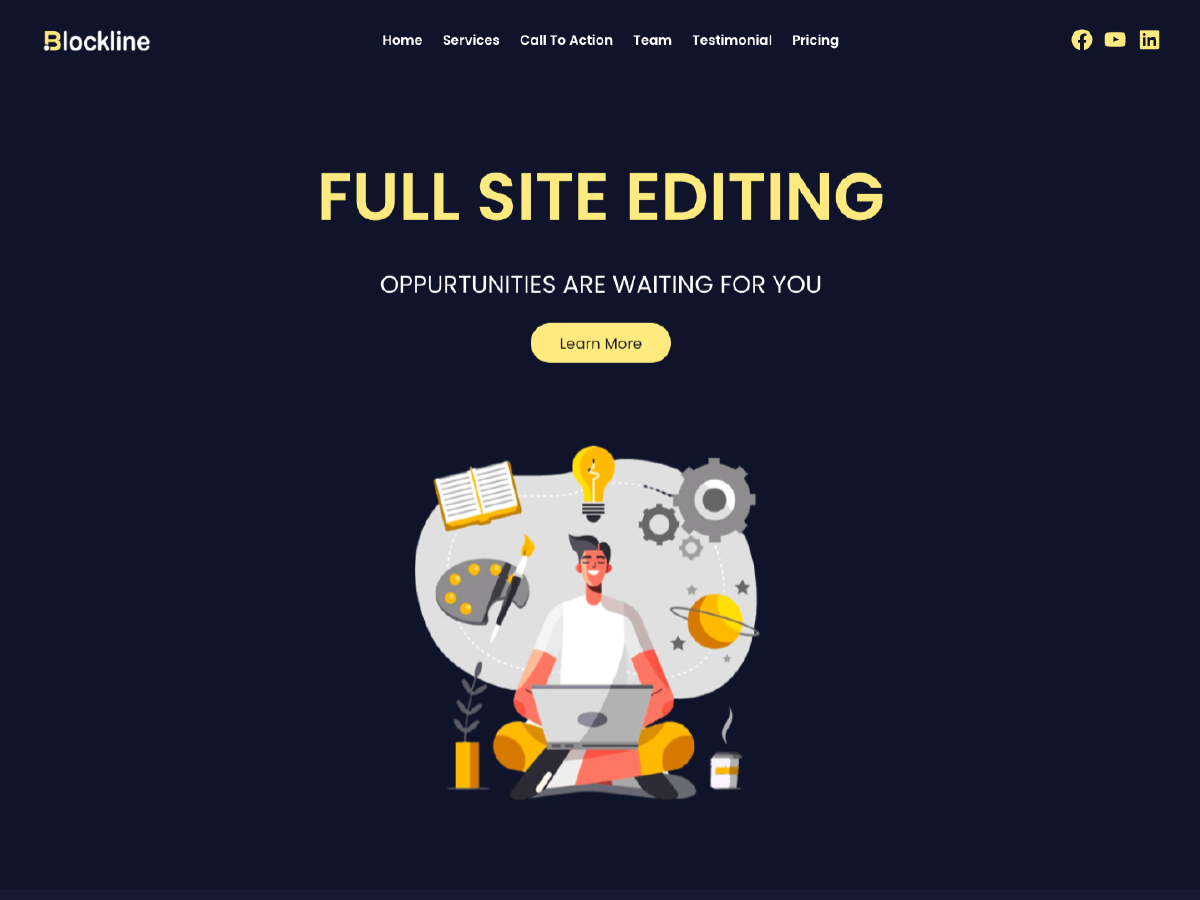
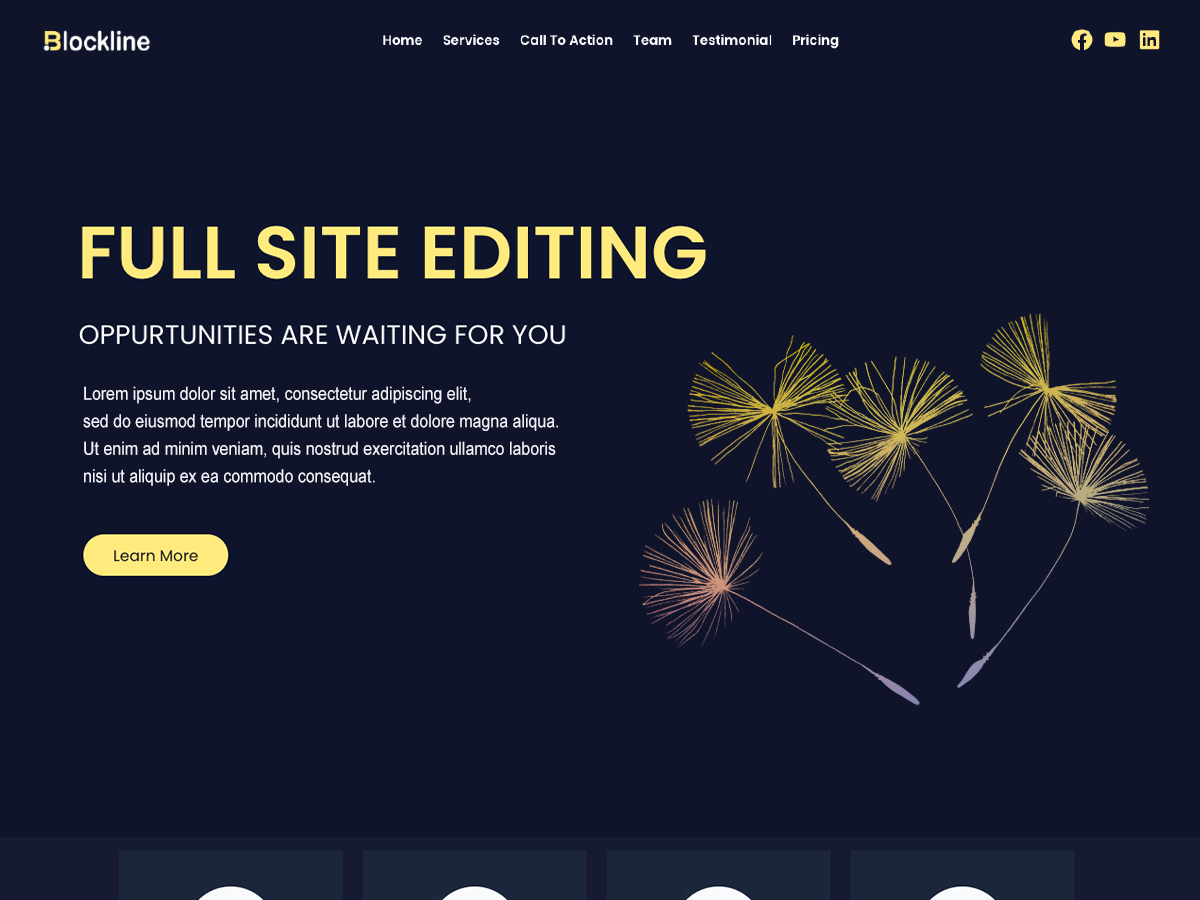
ne file added

diff --git a/templates/home.html b/templates/home.html
@@ -1,8 +1,6 @@
 <!-- wp:template-part {"slug":"header","tagName":"header"} /-->
 
-
-<!-- wp:pattern {"slug":"blockline/hero"} /-->
-
+<!-- wp:pattern {"slug":"blockline/hero-main"} /-->
 
 <!-- wp:pattern {"slug":"blockline/service"} /-->
 

diff --git a/inc/patterns/pricing.php b/inc/patterns/pricing.php
@@ -10,7 +10,7 @@
 return array(
     'title'      =>__( 'Pricing Section', 'blockline' ),
     'categories' => array( 'blockline' ),
-    'content'    => '<!-- wp:group {"style":{"spacing":{"padding":{"top":"100px","right":"20px","bottom":"100px","left":"20px"},"margin":{"top":"0","bottom":"0"}},"border":{"bottom":{"color":"#eeeeee","width":"1px"}}},"backgroundColor":"bg-sec","layout":{"type":"constrained"}} -->
+    'content'    => '<!-- wp:group {"style":{"spacing":{"padding":{"top":"100px","right":"20px","bottom":"100px","left":"20px"},"margin":{"top":"0","bottom":"0"}},"border":{"bottom":{"color":"#eeeeee","width":"1px"}}},"background":"bg-sec","layout":{"type":"constrained"}} -->
 <div class="wp-block-group has-bg-sec-background-color has-background" style="border-bottom-color:#eeeeee;border-bottom-width:1px;margin-top:0;margin-bottom:0;padding-top:100px;padding-right:20px;padding-bottom:100px;padding-left:20px"><!-- wp:group {"layout":{"type":"default"}} -->
 <div class="wp-block-group"><!-- wp:heading {"textAlign":"center","style":{"spacing":{"margin":{"bottom":"10px","left":"0","right":"0"}}},"fontSize":"extra-large"} -->
 <h2 class="has-text-align-center has-extra-large-font-size" style="margin-right:0;margin-bottom:10px;margin-left:0">'.esc_html__( 'Pricing & Packages', 'blockline' ).'</h2>
@@ -22,7 +22,7 @@ return array(
 
 <!-- wp:columns {"style":{"spacing":{"padding":{"right":"20px","left":"20px"},"margin":{"top":"80px"}}}} -->
 <div class="wp-block-columns" style="margin-top:80px;padding-right:20px;padding-left:20px"><!-- wp:column {"style":{"spacing":{"padding":{"right":"0","left":"0","top":"0px"}}},"layout":{"type":"default"}} -->
-<div class="wp-block-column" style="padding-top:0px;padding-right:0;padding-left:0"><!-- wp:group {"style":{"border":{"color":"#eeeeee","width":"1px"},"spacing":{"padding":{"top":"50px","right":"20px","bottom":"20px","left":"20px"},"blockGap":"0"}},"backgroundColor":"background","layout":{"type":"constrained"}} -->
+<div class="wp-block-column" style="padding-top:0px;padding-right:0;padding-left:0"><!-- wp:group {"style":{"border":{"color":"#eeeeee","width":"1px"},"spacing":{"padding":{"top":"50px","right":"20px","bottom":"20px","left":"20px"},"blockGap":"0"}},"background":"background","layout":{"type":"constrained"}} -->
 <div class="wp-block-group has-border-color has-background-background-color has-background" style="border-color:#eeeeee;border-width:1px;padding-top:50px;padding-right:20px;padding-bottom:20px;padding-left:20px"><!-- wp:heading {"textAlign":"center","fontSize":"upper-heading"} -->
 <h2 class="has-text-align-center has-upper-heading-font-size">'.esc_html__( 'STARTER', 'blockline' ).'</h2>
 <!-- /wp:heading -->
@@ -35,7 +35,7 @@ return array(
 <p class="has-text-align-center has-cyan-bluish-gray-color has-text-color"><strong>'.esc_html__( 'Per Month', 'blockline' ).'</strong></p>
 <!-- /wp:paragraph -->
 
-<!-- wp:separator {"style":{"spacing":{"margin":{"top":"20px","bottom":"20px"}}},"backgroundColor":"cyan-bluish-gray","className":"is-style-default"} -->
+<!-- wp:separator {"style":{"spacing":{"margin":{"top":"20px","bottom":"20px"}}},"background":"cyan-bluish-gray","className":"is-style-default"} -->
 <hr class="wp-block-separator has-text-color has-cyan-bluish-gray-color has-alpha-channel-opacity has-cyan-bluish-gray-background-color has-background is-style-default" style="margin-top:20px;margin-bottom:20px"/>
 <!-- /wp:separator -->
 
@@ -60,11 +60,11 @@ return array(
 <!-- /wp:column -->
 
 <!-- wp:column {"style":{"spacing":{"padding":{"right":"0","left":"0","top":"0px"}},"border":{"color":"#eeeeee","width":"1px"}},"layout":{"type":"default"}} -->
-<div class="wp-block-column has-border-color" style="border-color:#eeeeee;border-width:1px;padding-top:0px;padding-right:0;padding-left:0"><!-- wp:paragraph {"align":"center","style":{"spacing":{"margin":{"top":"0","right":"0","bottom":"0","left":"0"},"padding":{"top":"10px","right":"0","bottom":"10px","left":"0"}}},"backgroundColor":"accent","textColor":"background","fontSize":"tiny"} -->
+<div class="wp-block-column has-border-color" style="border-color:#eeeeee;border-width:1px;padding-top:0px;padding-right:0;padding-left:0"><!-- wp:paragraph {"align":"center","style":{"spacing":{"margin":{"top":"0","right":"0","bottom":"0","left":"0"},"padding":{"top":"10px","right":"0","bottom":"10px","left":"0"}}},"background":"accent","textColor":"background","fontSize":"tiny"} -->
 <p class="has-text-align-center has-background-color has-accent-background-color has-text-color has-background has-tiny-font-size" style="margin-top:0;margin-right:0;margin-bottom:0;margin-left:0;padding-top:10px;padding-right:0;padding-bottom:10px;padding-left:0"><strong>'.esc_html__( 'Recommended', 'blockline' ).'</strong></p>
 <!-- /wp:paragraph -->
 
-<!-- wp:group {"style":{"border":{"width":"0px","style":"none"},"spacing":{"padding":{"top":"50px","right":"20px","bottom":"20px","left":"20px"},"blockGap":"0","margin":{"top":"0","bottom":"0"}}},"backgroundColor":"background","layout":{"type":"constrained"}} -->
+<!-- wp:group {"style":{"border":{"width":"0px","style":"none"},"spacing":{"padding":{"top":"50px","right":"20px","bottom":"20px","left":"20px"},"blockGap":"0","margin":{"top":"0","bottom":"0"}}},"background":"background","layout":{"type":"constrained"}} -->
 <div class="wp-block-group has-background-background-color has-background" style="border-style:none;border-width:0px;margin-top:0;margin-bottom:0;padding-top:50px;padding-right:20px;padding-bottom:20px;padding-left:20px"><!-- wp:heading {"textAlign":"center","fontSize":"upper-heading"} -->
 <h2 class="has-text-align-center has-upper-heading-font-size">'.esc_html__( 'TEAM', 'blockline' ).'</h2>
 <!-- /wp:heading -->
@@ -77,7 +77,7 @@ return array(
 <p class="has-text-align-center has-cyan-bluish-gray-color has-text-color"><strong>'.esc_html__( 'Per Month', 'blockline' ).'</strong></p>
 <!-- /wp:paragraph -->
 
-<!-- wp:separator {"style":{"spacing":{"margin":{"top":"20px","bottom":"20px"}}},"backgroundColor":"cyan-bluish-gray","className":"is-style-default"} -->
+<!-- wp:separator {"style":{"spacing":{"margin":{"top":"20px","bottom":"20px"}}},"background":"cyan-bluish-gray","className":"is-style-default"} -->
 <hr class="wp-block-separator has-text-color has-cyan-bluish-gray-color has-alpha-channel-opacity has-cyan-bluish-gray-background-color has-background is-style-default" style="margin-top:20px;margin-bottom:20px"/>
 <!-- /wp:separator -->
 
@@ -102,7 +102,7 @@ return array(
 <!-- /wp:column -->
 
 <!-- wp:column {"style":{"spacing":{"padding":{"right":"0","left":"0","top":"0px"}}},"layout":{"type":"default"}} -->
-<div class="wp-block-column" style="padding-top:0px;padding-right:0;padding-left:0"><!-- wp:group {"style":{"border":{"color":"#eeeeee","width":"1px"},"spacing":{"padding":{"top":"50px","right":"20px","bottom":"20px","left":"20px"},"blockGap":"0"}},"backgroundColor":"background","layout":{"type":"constrained"}} -->
+<div class="wp-block-column" style="padding-top:0px;padding-right:0;padding-left:0"><!-- wp:group {"style":{"border":{"color":"#eeeeee","width":"1px"},"spacing":{"padding":{"top":"50px","right":"20px","bottom":"20px","left":"20px"},"blockGap":"0"}},"background":"background","layout":{"type":"constrained"}} -->
 <div class="wp-block-group has-border-color has-background-background-color has-background" style="border-color:#eeeeee;border-width:1px;padding-top:50px;padding-right:20px;padding-bottom:20px;padding-left:20px"><!-- wp:heading {"textAlign":"center","fontSize":"upper-heading"} -->
 <h2 class="has-text-align-center has-upper-heading-font-size">'.esc_html__( 'PREMIUM', 'blockline' ).'</h2>
 <!-- /wp:heading -->
@@ -115,7 +115,7 @@ return array(
 <p class="has-text-align-center has-cyan-bluish-gray-color has-text-color"><strong>'.esc_html__( 'Per Month', 'blockline' ).'</strong></p>
 <!-- /wp:paragraph -->
 
-<!-- wp:separator {"style":{"spacing":{"margin":{"top":"20px","bottom":"20px"}}},"backgroundColor":"cyan-bluish-gray","className":"is-style-default"} -->
+<!-- wp:separator {"style":{"spacing":{"margin":{"top":"20px","bottom":"20px"}}},"background":"cyan-bluish-gray","className":"is-style-default"} -->
 <hr class="wp-block-separator has-text-color has-cyan-bluish-gray-color has-alpha-channel-opacity has-cyan-bluish-gray-background-color has-background is-style-default" style="margin-top:20px;margin-bottom:20px"/>
 <!-- /wp:separator -->
 
@@ -140,7 +140,7 @@ return array(
 <!-- /wp:column -->
 
 <!-- wp:column {"style":{"spacing":{"padding":{"right":"0","left":"0","top":"0px"}}},"layout":{"type":"default"}} -->
-<div class="wp-block-column" style="padding-top:0px;padding-right:0;padding-left:0"><!-- wp:group {"style":{"border":{"color":"#eeeeee","width":"1px"},"spacing":{"padding":{"top":"50px","right":"20px","bottom":"20px","left":"20px"},"blockGap":"0"}},"backgroundColor":"background","layout":{"type":"constrained"}} -->
+<div class="wp-block-column" style="padding-top:0px;padding-right:0;padding-left:0"><!-- wp:group {"style":{"border":{"color":"#eeeeee","width":"1px"},"spacing":{"padding":{"top":"50px","right":"20px","bottom":"20px","left":"20px"},"blockGap":"0"}},"background":"background","layout":{"type":"constrained"}} -->
 <div class="wp-block-group has-border-color has-background-background-color has-background" style="border-color:#eeeeee;border-width:1px;padding-top:50px;padding-right:20px;padding-bottom:20px;padding-left:20px"><!-- wp:heading {"textAlign":"center","fontSize":"upper-heading"} -->
 <h2 class="has-text-align-center has-upper-heading-font-size">'.esc_html__( 'CORPORATE', 'blockline' ).'</h2>
 <!-- /wp:heading -->
@@ -153,7 +153,7 @@ return array(
 <p class="has-text-align-center has-cyan-bluish-gray-color has-text-color"><strong>'.esc_html__( 'Per Month', 'blockline' ).'</strong></p>
 <!-- /wp:paragraph -->
 
-<!-- wp:separator {"style":{"spacing":{"margin":{"top":"20px","bottom":"20px"}}},"backgroundColor":"cyan-bluish-gray","className":"is-style-default"} -->
+<!-- wp:separator {"style":{"spacing":{"margin":{"top":"20px","bottom":"20px"}}},"background":"cyan-bluish-gray","className":"is-style-default"} -->
 <hr class="wp-block-separator has-text-color has-cyan-bluish-gray-color has-alpha-channel-opacity has-cyan-bluish-gray-background-color has-background is-style-default" style="margin-top:20px;margin-bottom:20px"/>
 <!-- /wp:separator -->
 

diff --git a/inc/patterns/hero.php b/inc/patterns/hero.php
@@ -17,7 +17,7 @@ $strings = array(
 return array(
     'title'      =>__( 'Hero Section', 'blockline' ),
     'categories' => array( 'blockline' ),
-    'content'    => '<!-- wp:group {"style":{"spacing":{"padding":{"top":"var:preset|spacing|80","bottom":"var:preset|spacing|80"},"margin":{"top":"0","bottom":"0"}},"border":{"top":{"style":"none","width":"0px"},"right":{"style":"none","width":"0px"},"bottom":{"color":"#eeeeee","style":"none","width":"0px"},"left":{"style":"none","width":"0px"}}},"backgroundColor":"bg-prim","layout":{"type":"constrained"}} -->
+    'content'    => '<!-- wp:group {"style":{"spacing":{"padding":{"top":"var:preset|spacing|80","bottom":"var:preset|spacing|80"},"margin":{"top":"0","bottom":"0"}},"border":{"top":{"style":"none","width":"0px"},"right":{"style":"none","width":"0px"},"bottom":{"color":"#eeeeee","style":"none","width":"0px"},"left":{"style":"none","width":"0px"}}},"background":"bg-prim","layout":{"type":"constrained"}} -->
     <div class="wp-block-group has-bg-prim-background-color has-background" style="border-top-style:none;border-top-width:0px;border-right-style:none;border-right-width:0px;border-bottom-color:#eeeeee;border-bottom-style:none;border-bottom-width:0px;border-left-style:none;border-left-width:0px;margin-top:0;margin-bottom:0;padding-top:var(--wp--preset--spacing--80);padding-bottom:var(--wp--preset--spacing--80)"><!-- wp:spacer {"height":"60px"} -->
     <div style="height:60px" aria-hidden="true" class="wp-block-spacer"></div>
     <!-- /wp:spacer -->
@@ -33,18 +33,19 @@ return array(
     <!-- wp:spacer {"height":"40px"} -->
     <div style="height:40px" aria-hidden="true" class="wp-block-spacer"></div>
     <!-- /wp:spacer -->
-    
+
     <!-- wp:buttons {"layout":{"type":"flex","justifyContent":"center"},"style":{"spacing":{"blockGap":"0"}}} -->
-    <div class="wp-block-buttons"><!-- wp:button {"backgroundColor":"accent","style":{"border":{"radius":"100px"},"spacing":{"padding":{"top":"1rem","right":"2rem","bottom":"1rem","left":"2rem"}}},"className":"is-style-fill","fontSize":"normal"} -->
-    <div class="wp-block-button has-custom-font-size is-style-fill has-normal-font-size"><a class="wp-block-button__link has-accent-background-color has-background wp-element-button" style="border-radius:100px;padding-top:1rem;padding-right:2rem;padding-bottom:1rem;padding-left:2rem">' . esc_html( $strings['button'] ) . '</a></div>
-    <!-- /wp:button --></div>
-    <!-- /wp:buttons -->
+<div class="wp-block-buttons"><!-- wp:button {"style":{"border":{"radius":"100px"},"spacing":{"padding":{"top":"1rem","right":"2rem","bottom":"1rem","left":"2rem"}}},"className":"is-style-fill","fontSize":"normal"} -->
+<div class="wp-block-button has-custom-font-size is-style-fill has-normal-font-size"><a class="wp-block-button__link wp-element-button" style="border-radius:100px;padding-top:1rem;padding-right:2rem;padding-bottom:1rem;padding-left:2rem">' . esc_html( $strings['button'] ) . '</a></div>
+<!-- /wp:button --></div>
+<!-- /wp:buttons -->
+
     
     <!-- wp:spacer {"height":"30px"} -->
     <div style="height:30px" aria-hidden="true" class="wp-block-spacer"></div>
     <!-- /wp:spacer -->
     <!-- wp:image {"align":"center","id":13,"sizeSlug":"full","linkDestination":"none"} -->
-<figure class="wp-block-image aligncenter size-full"><img src="' . esc_url( BLOCKLINE_URL . 'assets/images/').'hero.png" alt="" class="wp-image-13"/></figure>
+<figure class="wp-block-image aligncenter size-full"><img src="' . esc_url( BLOCKLINE_URL . 'assets/images/').'hero-center.png" alt="" class="wp-image-13"/></figure>
 <!-- /wp:image --></div>
     ',
 );

diff --git a/inc/patterns/hero-main.php b/inc/patterns/hero-main.php
@@ -1,0 +1,56 @@
+<?php
+/**
+ * Hero Main Section
+ * 
+ * slug: hero-main
+ * title: Hero main Section
+ * categories: blockline
+ */
+$strings = array(
+    'title'    => __( 'Blockline Theme', 'blockline' ),
+    'subtitle'    => __( 'OPPURTUNITIES ARE WAITING FOR YOU', 'blockline' ),
+    'description' => __( 'Lorem ipsum dolor sit amet, consectetur adipiscing elit, sed do eiusmod tempor ut labore et dolore magna aliqua.', 'blockline' ),
+    'button'   => __( 'Learn More', 'blockline' ),
+);
+
+return array(
+    'title'      =>__( 'Hero Main Section', 'blockline' ),
+    'categories' => array( 'blockline' ),
+    'content'    => '<!-- wp:group {"style":{"spacing":{"padding":{"top":"var:preset|spacing|80","bottom":"var:preset|spacing|80"},"margin":{"top":"0","bottom":"0"}},"border":{"bottom":{"width":"0px","style":"none"}},"color":{"background":"bg-prim"}},"layout":{"type":"constrained"}} -->
+    <div class="wp-block-group has-background" style="border-bottom-style:none;border-bottom-width:0px;background-color:bg-prim;margin-top:0;margin-bottom:0;padding-top:var(--wp--preset--spacing--80);padding-bottom:var(--wp--preset--spacing--80)"><!-- wp:spacer {"height":"10px"} -->
+    <div style="height:10px" aria-hidden="true" class="wp-block-spacer"></div>
+    <!-- /wp:spacer -->
+    
+    <!-- wp:columns -->
+    <div class="wp-block-columns"><!-- wp:column -->
+    <div class="wp-block-column">
+    
+    
+    <!-- wp:heading {"textAlign":"left","style":{"typography":{"fontStyle":"normal","fontWeight":"600","fontSize":"62px"},"elements":{"link":{"color":{"text":"accent"}}},"color":{"text":"accent"}}} -->
+    <h2 class="has-text-align-left has-text-color has-link-color" style="color:accent;font-size:62px;font-style:normal;font-weight:600">' . esc_html( $strings['title'] ) . '</h2>
+    <!-- /wp:heading -->
+    
+    <!-- wp:paragraph {"align":"left","style":{"typography":{"fontSize":"22px"}}} -->
+    <p class="has-text-align-left" style="font-size:22px">' . esc_html( $strings['subtitle'] ) . '</p>
+    <!-- /wp:paragraph -->
+    
+    <!-- wp:paragraph {"align":"left","fontSize":"small"} -->
+    <p class="has-text-align-left has-small-font-size">' . esc_html( $strings['description'] ) . '</p>
+    <!-- /wp:paragraph -->
+    
+    <!-- wp:buttons -->
+    <div class="wp-block-buttons"><!-- wp:button {"style":{"color":{"background":"#ffe68d"},"border":{"radius":"34px"}}} -->
+    <div class="wp-block-button"><a class="wp-block-button__link has-background wp-element-button" style="border-radius:34px;background-color:#ffe68d">' . esc_html( $strings['button'] ) . '</a></div>
+    <!-- /wp:button --></div>
+    <!-- /wp:buttons --></div>
+    <!-- /wp:column -->
+    
+    <!-- wp:column -->
+    <div class="wp-block-column"><!-- wp:image {"id":102,"height":436,"sizeSlug":"full","linkDestination":"none","style":{"border":{"radius":"0px"}}} -->
+    <figure class="wp-block-image size-full is-resized has-custom-border"><img src="' . esc_url( BLOCKLINE_URL . 'assets/images/').'hero-center.png" alt="blockline" class="wp-image-102" style="border-radius:0px" height="436"/></figure>
+    <!-- /wp:image --></div>
+    <!-- /wp:column --></div>
+    <!-- /wp:columns --></div>
+    <!-- /wp:group -->
+    ',
+);

diff --git a/inc/patterns/testimonial.php b/inc/patterns/testimonial.php
@@ -10,8 +10,8 @@
 return array(
     'title'      =>__( 'Testimonial Section', 'blockline' ),
     'categories' => array( 'blockline' ),
-    'content'    => '<!-- wp:group {"style":{"spacing":{"blockGap":"0","padding":{"top":"100px","right":"20px","bottom":"100px","left":"20px"},"margin":{"top":"0","bottom":"0"}},"border":{"bottom":{"color":"#eeeeee","width":"1px"}}},"backgroundColor":"bg-prim","layout":{"type":"constrained"}} -->
-<div class="wp-block-group has-bg-prim-background-color has-background" style="border-bottom-color:#eeeeee;border-bottom-width:1px;margin-top:0;margin-bottom:0;padding-top:100px;padding-right:20px;padding-bottom:100px;padding-left:20px"><!-- wp:group {"layout":{"type":"default"}} -->
+    'content'    => '<!-- wp:group {"style":{"spacing":{"blockGap":"0","padding":{"top":"100px","right":"20px","bottom":"100px","left":"20px"},"margin":{"top":"0","bottom":"0"}},"border":{"bottom":{"color":"#eeeeee","width":"1px"}}},"background":"bg-prim","layout":{"type":"constrained"}} -->
+<div class="wp-block-group has-background" style="border-bottom-color:#eeeeee;border-bottom-width:1px;margin-top:0;margin-bottom:0;padding-top:100px;padding-right:20px;padding-bottom:100px;padding-left:20px"><!-- wp:group {"layout":{"type":"default"}} -->
 <div class="wp-block-group"><!-- wp:heading {"textAlign":"center","style":{"spacing":{"margin":{"bottom":"10px","left":"0","right":"0"}}},"fontSize":"extra-large"} -->
 <h2 class="has-text-align-center has-extra-large-font-size" style="margin-right:0;margin-bottom:10px;margin-left:0">'.esc_html__('Testimonials', 'blockline' ).'</h2>
 <!-- /wp:heading -->

diff --git a/inc/patterns/ribbon.php b/inc/patterns/ribbon.php
@@ -10,7 +10,7 @@
 return array(
     'title'      =>__( 'Ribbon Section', 'blockline' ),
     'categories' => array( 'blockline' ),
-    'content'    => '<!-- wp:group {"style":{"spacing":{"blockGap":"0","padding":{"top":"100px","right":"20px","bottom":"100px","left":"20px"},"margin":{"top":"0","bottom":"0"}},"border":{"bottom":{"color":"#eeeeee","width":"1px"}}},"backgroundColor":"accent","layout":{"type":"constrained"}} -->
+    'content'    => '<!-- wp:group {"style":{"spacing":{"blockGap":"0","padding":{"top":"100px","right":"20px","bottom":"100px","left":"20px"},"margin":{"top":"0","bottom":"0"}},"border":{"bottom":{"color":"#eeeeee","width":"1px"}}},"background":"accent","layout":{"type":"constrained"}} -->
 <div class="wp-block-group has-accent-background-color has-background" style="border-bottom-color:#eeeeee;border-bottom-width:1px;margin-top:0;margin-bottom:0;padding-top:100px;padding-right:20px;padding-bottom:100px;padding-left:20px"><!-- wp:heading {"textAlign":"center","style":{"typography":{"fontStyle":"normal","fontWeight":"600"}},"textColor":"background","fontSize":"large"} -->
 <h2 class="has-text-align-center has-background-color has-text-color has-large-font-size" style="font-style:normal;font-weight:600">'.esc_html__( '“Pleasure in the job puts perfection in the work”', 'blockline' ).'</h2>
 <!-- /wp:heading -->

diff --git a/inc/block-pattern.php b/inc/block-pattern.php
@@ -46,6 +46,7 @@
 	}
 
 	$block_patterns = array(
+		'hero-main',
 		'hero',
 		'hero-1',
 		'service',
